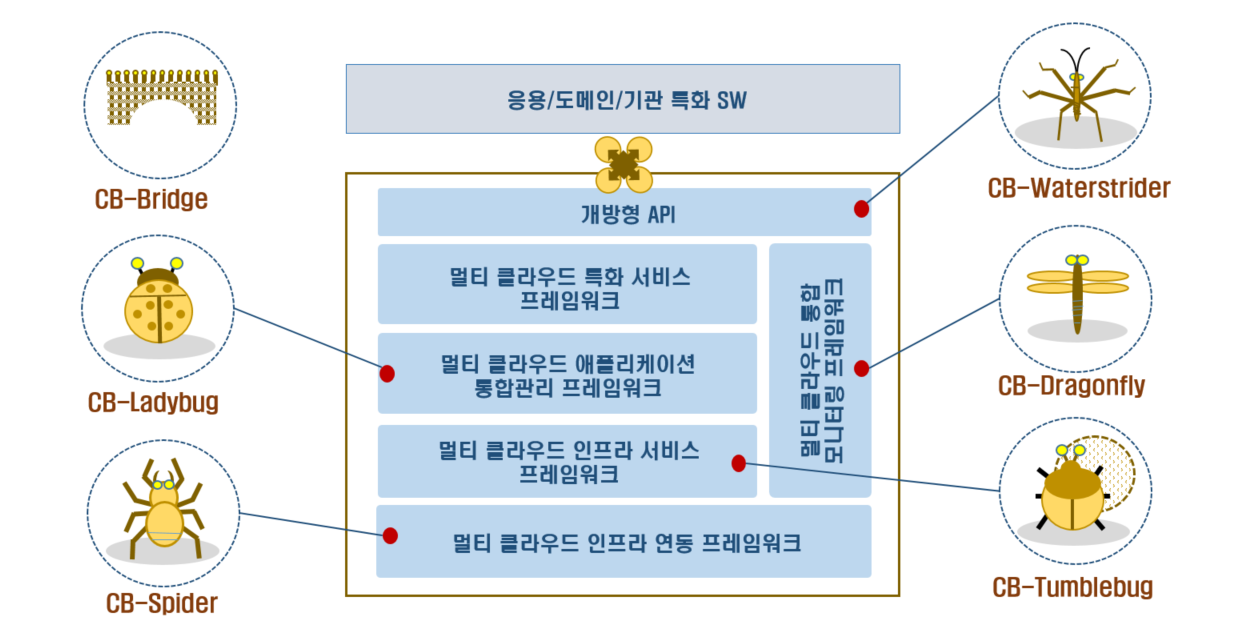
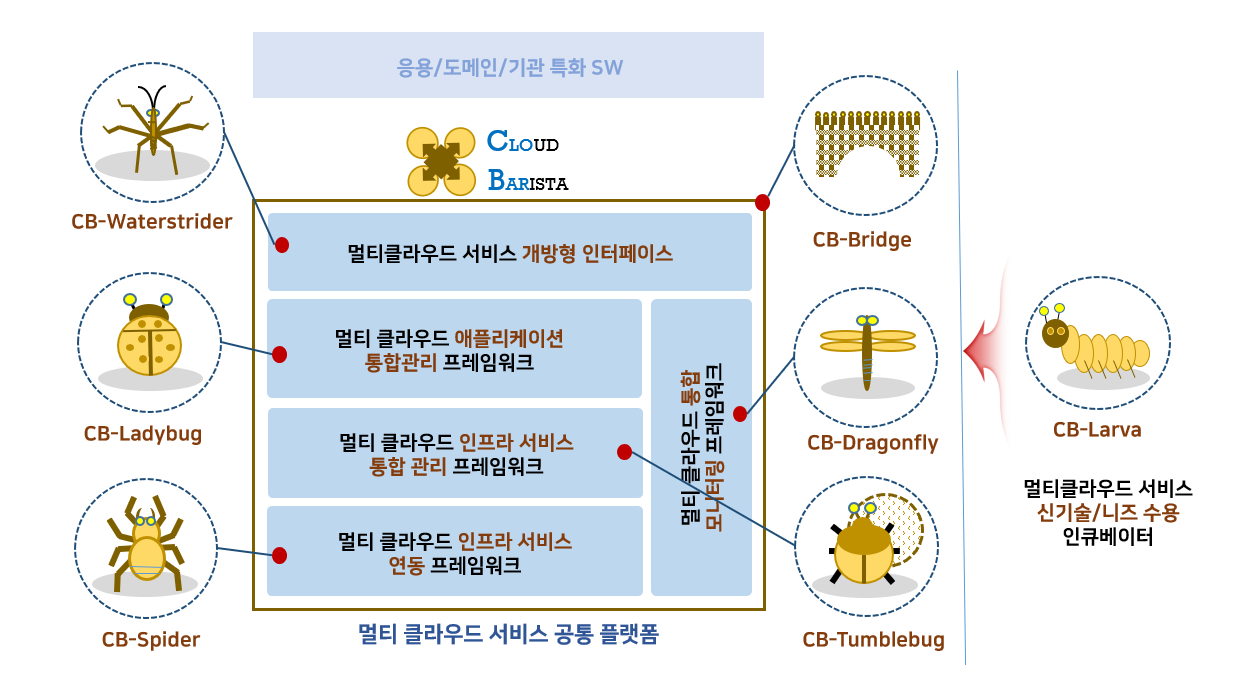
Update Technology page content and image file

diff --git a/technology.html b/technology.html
@@ -13,8 +13,8 @@ permalink: /technology/
             <p>Cloud-Barista의 주요 기술로는 멀티 클라우드 인프라 연동, 멀티 클라우드 인프라 서비스 통합 운용 및 관리, 멀티 클라우드 애플리케이션 통합 운용·관리, 멀티클라우드 통합 모니터링, 멀티 클라우드 개방형API 및 멀티 클라우드 서비스 공통 프레임워크 런타임 기술 등으로 구성되어 있습니다.</p>
             <p><BR></p>
 
-            <P><h4>Cloud-Barista Frameworks</h4></P>
-            <p>Cloud-Barista의 하위 프레임워크로서 '멀티 클라우드 인프라 연동 프레임워크(CB-Spider)', '멀티 클라우드 인프라 서비스 프레임워크(CB-Tumblebug)', '멀티 클라우드 애플리케이션 통합관리 프레임워크(CB-Ladybug)', '멀티 클라우드 통합 모니터링 프레임워크(CB-Dragonfly)', '개방형 API(CB-Waterstrider)', '멀티 클라우드 공통 프레임워크 아키텍처 및 런타임(CB-Bridge)' 등 6개의 주요 기술과 관련한 부가 기술의 개발하고 있습니다.</p>
+            <P><h4>Cloud-Barista Frameworks and Incubator</h4></P>
+            <p>Cloud-Barista의 프레임워크로서 '멀티 클라우드 인프라 연동 프레임워크(CB-Spider)', '멀티 클라우드 인프라 서비스 프레임워크(CB-Tumblebug)', '멀티 클라우드 애플리케이션 통합관리 프레임워크(CB-Ladybug)', '멀티 클라우드 통합 모니터링 프레임워크(CB-Dragonfly)', '개방형 API(CB-Waterstrider)', '멀티 클라우드 공통 프레임워크 아키텍처 및 런타임(CB-Bridge)' 6개의 주요 기술과 관련 부가기술 개발을 진행하고 있습니다. 또한, 기술 인큐베이터로서 '멀티 클라우드 기술 인큐베이터(CB-Larva)'는 멀티 클라우드의 도전과제를 연구 개발하고 있습니다.</p>
             
             <img class="img-responsive" src="{{ "/assets/img/sub-frameworks.png" | prepend: site.baseurl }}" alt="">
         </div>
@@ -98,6 +98,18 @@ permalink: /technology/
                         <P>공통/협업 런타임 기술 측면으로는 각 프레임워크의 MSA(Micro Service Architecture) 구조(모듈화) 실행 환경을 제공하며, Cloud-Barista 사용자 및 개별 프레임워크 간의 유연한 협업 극대화를 위해서 API Gateway 기능을 제공할 예정입니다.</P>
                         <p>프레임워크 개발용 공통 템플릿 기능으로는 메타데이터 저장 관리(CB-Store) 및 로그 기능(CB-Log) 등을 제공하며, 지속적인 템플릿화 추가 발굴을 추진 중에 있습니다.</p>
                         <p>또한, Cloud-Barista 배포 측면에서는 손쉬운 설치 및 운영을 위하여 실행 환경을 포함한 컨테이너화된 프레임워크(Containerized Framework)들을 기반으로 배포 기능을 제공할 예정입니다.</p>
+                     </td>    
+                </tr>
+                <tr>
+                    <th scope="row">
+                        <img class="img-responsive" style="max-width:190px;width:100%" src="{{ "/assets/img/frameworks/cb-larva.png" | prepend: site.baseurl }}" alt="">
+                    </th>
+                    <td>
+                        <h4>CB-Larva: 멀티 클라우드 기술 인큐베이터</h4>
+                        <P>멀티 클라우드 기술 인큐베이터는 Cloud-Barista의 정체성을 잃지않고, 지속적으로 신규 니즈를 수용하기 위하여 신기술, 부족기술 등의 PoC를 수행하며, 이를 Cloud-Barista로 흡수하기 위한 기술 인큐베이터 입니다.</P>
+                        <P>멀티 클라우드를 위한 네트워크 기술을 연구 개발하여 각 클라우드 서비스 제공자(CSP)마다 상이한 네트워크 체계 및 변동 가능성으로 인한 커뮤니케이션 제한 문제를 해결하고, 멀티 클라우드를 위한 스토리지 기술을 연구 개발하여 멀티 클라우드를 기반으로 광범위한 지역에 서비스 제공시 데이터를 언제 어디서나 CRUD(Create, read, update, delete)할 수 있도록 지원할 계획입니다.</P>
+                        <p>마지막으로, Cloud-Barista 커뮤니티의 기술 인큐베이터로서 국내 산업에 꼭 필요한 멀티 클라우드 공통 플랫폼을 만들고자 기초부터 연구 개발하고 있습니다. 또한, “스토리지”, “네트워크”, “보안” 등 멀티 클라우드 관련 당면 Challenges를 국내 전문가들과 함께 해결해 나가기를 희망합니다.</p>
+                        <p>문은 항상 활짝 열려있으니 관심이 있으시거나, 관련 기술을 보유하고 계신다면 언제든 연락 주시기 바랍니다. “전 세계 클라우드를 하나로 엮는 그 날까지”</p>
                      </td>    
                 </tr>
                 </tbody>
